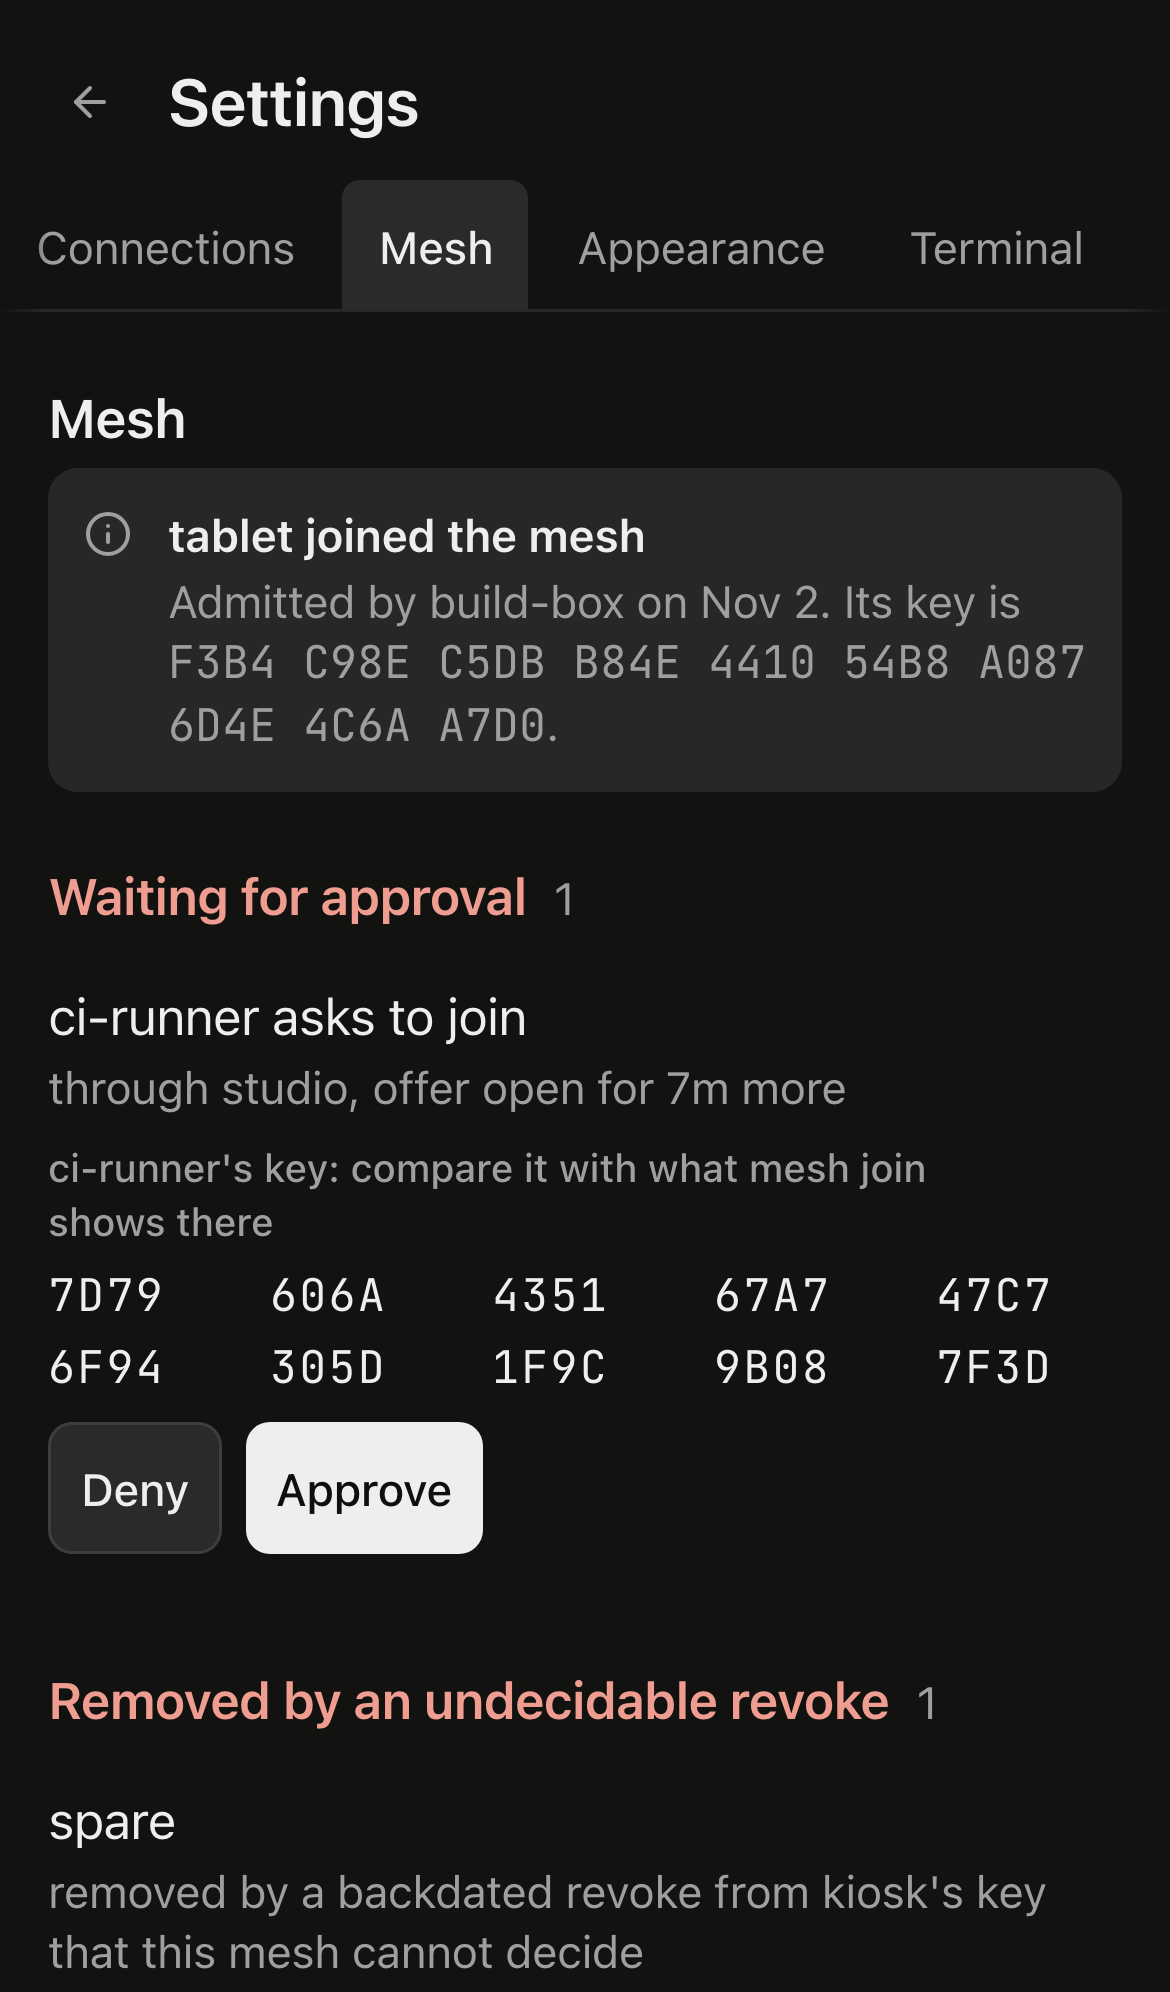
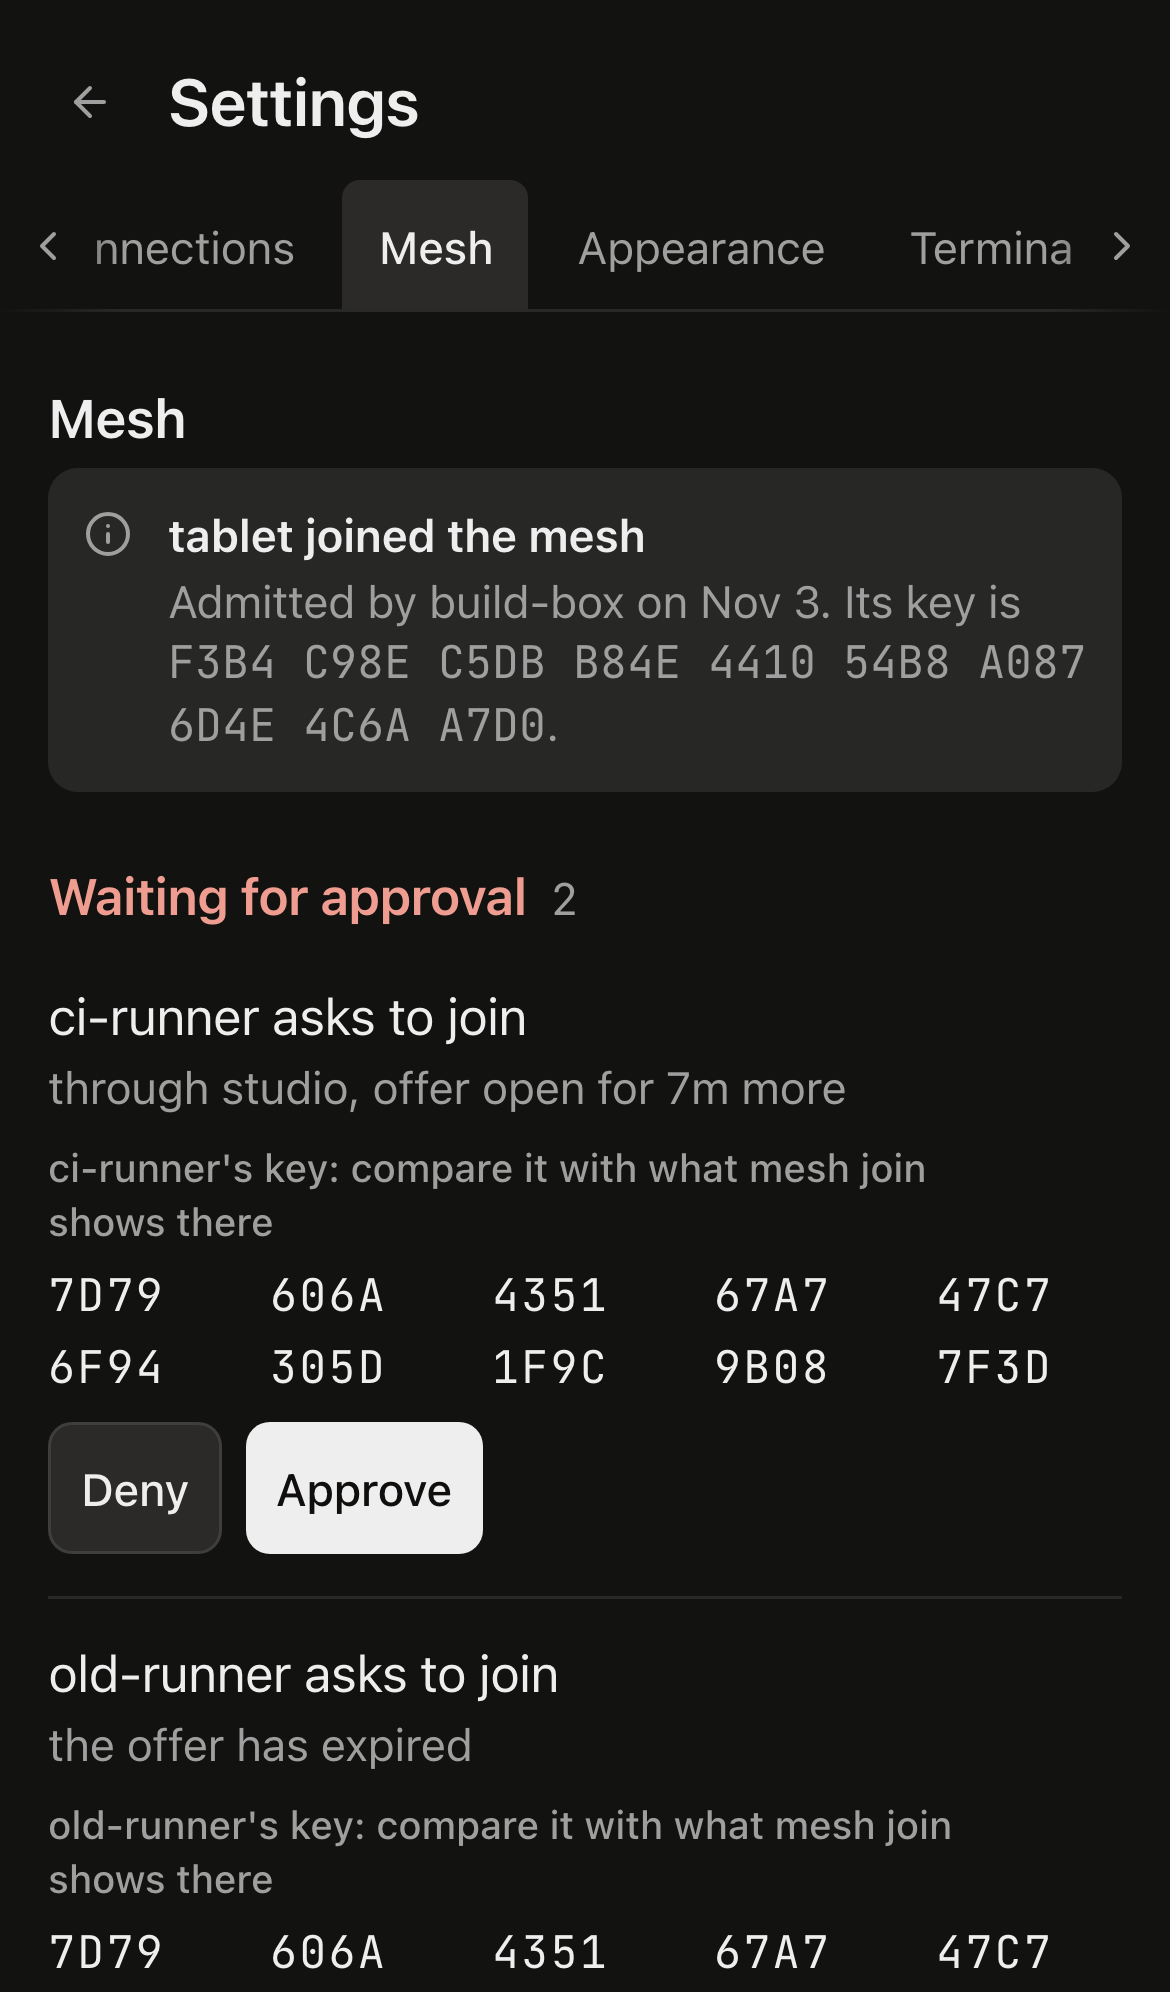
test(web): settings captures re-taken at 390 and 1440 in both themes, with the removal mid-scroll
Every settings capture is re-taken at this head: the phone tab strip now shows its edge cues, the pending group shows
the expired join next to the open one, and commands wrap at spaces. A new settings-mesh-removed frame scrolls the
fail-closed removal and its re-found command into view, which neither the top nor the end frame showed at 390.

diff --git a/apps/web/e2e/capture-shots.ts b/apps/web/e2e/capture-shots.ts
@@ -180,6 +180,15 @@ export const SHOTS: readonly Shot[] = [
   })),
   { name: "settings-mesh", start: "connected", run: meshLoaded },
   {
+    // The fail-closed removal and its re-found command, which neither the top nor the end frame shows at 390.
+    name: "settings-mesh-removed",
+    start: "connected",
+    run: async (page) => {
+      await meshLoaded(page);
+      await page.locator('[data-mesh-group^="removed-"]').first().scrollIntoViewIfNeeded();
+    },
+  },
+  {
     name: "settings-mesh-end",
     start: "connected",
     run: async (page) => {
